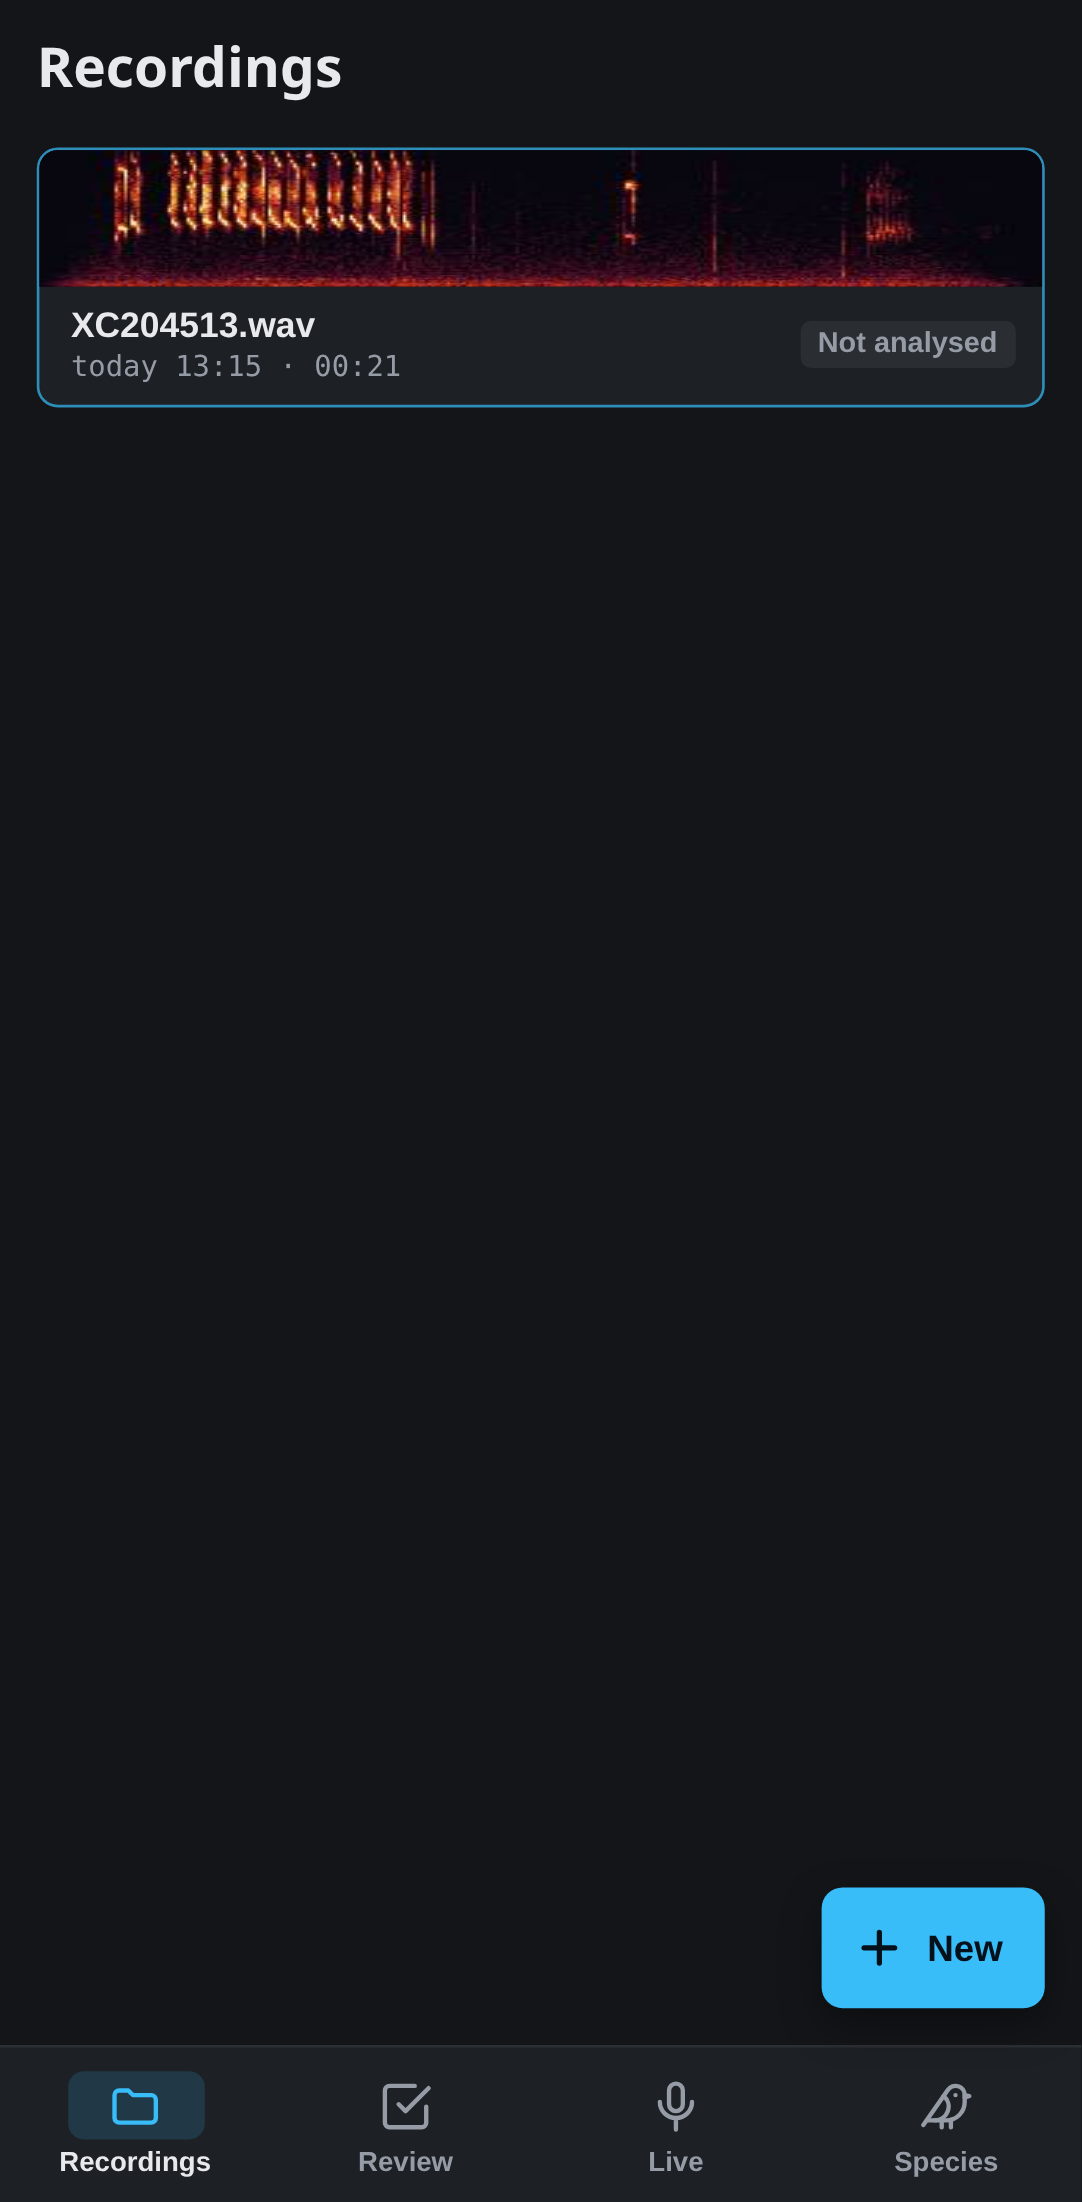
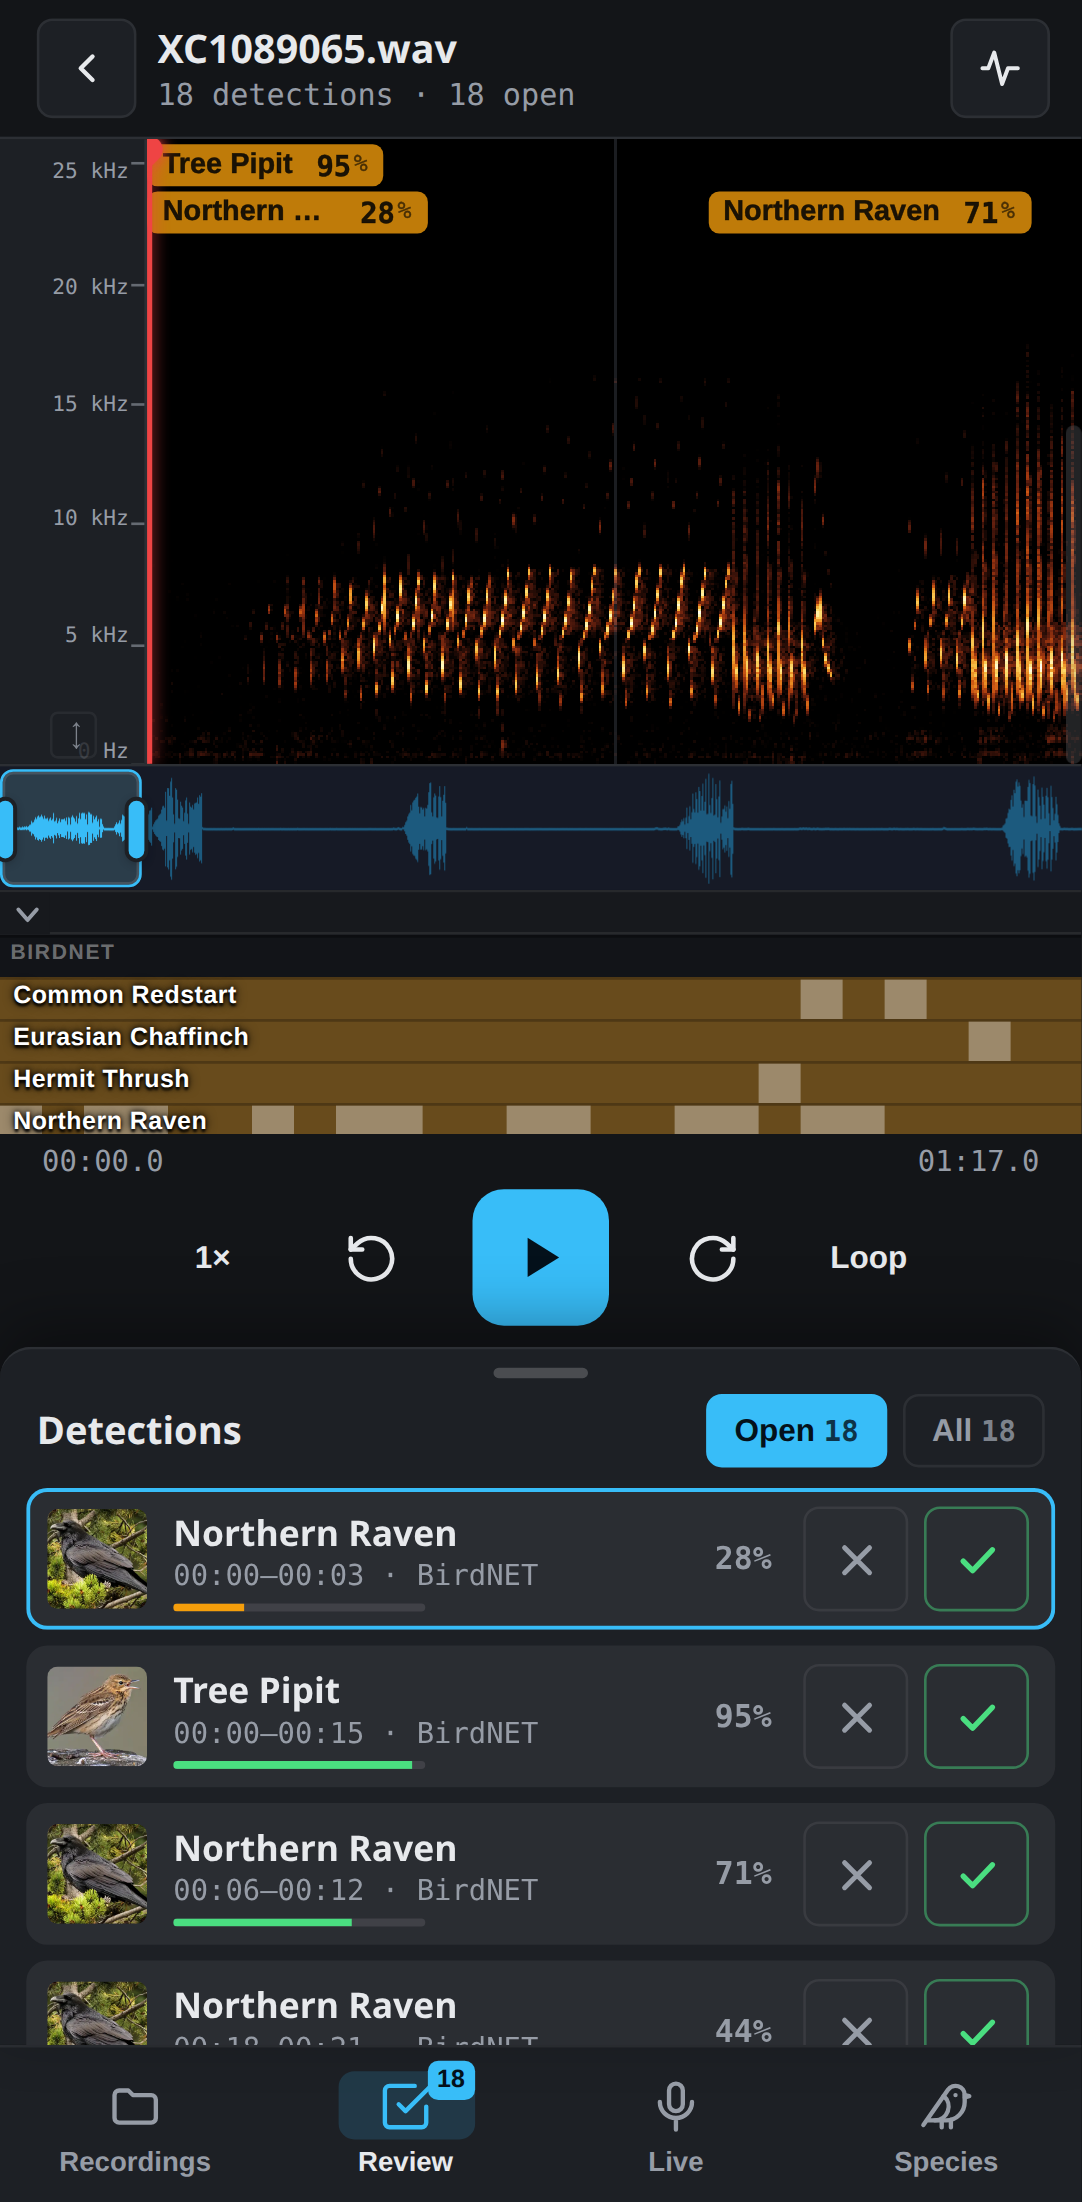
Website: shorter texts, screenshots from XC1089065
Cut landing and docs copy down to short, clear statements. App
screenshots now show XC1089065 (Tree Pipit, Petter Westberg,
CC BY-NC-SA 4.0), credited in the footer.

diff --git a/site/src/styles/site.css b/site/src/styles/site.css
@@ -165,3 +165,4 @@ p { margin: 0; }
   .mobile-band-inner > div { padding-bottom: 3.5rem; align-self: center; }
   .footer-inner { grid-template-columns: 1fr auto; align-items: start; }
 }
+.footer .credit { font-size: .8rem; opacity: .75; } .footer .credit a { text-decoration: underline; }
